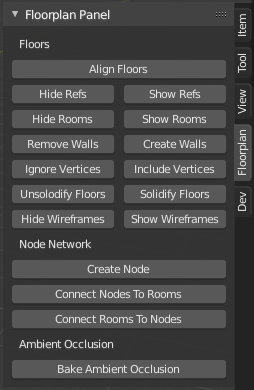
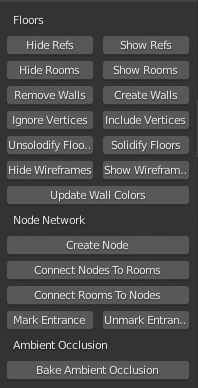
Updated Blender Readme.

diff --git a/Blender/readme.md b/Blender/readme.md
@@ -6,7 +6,9 @@ You can add the floorplan addon to Blender by going to Edit > Preferences > Add-
 Next, enable the addon by searching for 'Import Floor Plan' in the search bar of the addon tab.
 
 ### 1. Converting PDF floorplans to json files
-To run the script in this step you will need to have the [pdf2image python module](https://github.com/Belval/pdf2image) installed. Please follow the installation instructions for this module on its github page.
+To run the script in this step you will need to have the [pdf2image](https://github.com/Belval/pdf2image) and [PyPDF2](https://pypi.org/project/PyPDF2/) modules installed. Please follow the installation instructions for the pdf2image module on its github page.
+
+A usefull Blender addon to draw the wall lines in a floor plan is [Snap Utilities](https://gumroad.com/l/IaqQf).
 
 The first step for getting a floorplans into Blender is to extract the necessary data from the PDF files. This is done by running the `convertPdfs.py` script. This script will walk through all sub directories, and tries to extract floorplan data from any pdf it encounters. For every pdf the script will create a json and png file in the same directory.
 
@@ -25,7 +27,34 @@ At this point you will have to do quite a bit of manual labor to create the 3D m
 
 ![floorplan tools](images/floorplan_tools_panel.png)
 
-*TODO: describe every function in the tools panel.*
+#### Floorplan Tools Panel Functions
+
+- **Hide/Show Refs** - Show or hide the reference image of all floors in a building.
+
+- **Hide/Show Rooms** - Hides or shows the green spheres representing room nodes.
+
+- **Remove/Create Walls** - Creates or removes walls based on the model of the floor. Edges on the floor will be extruded upwards unless they are added to the 'ignore' vertex group. Doors will be created in spots where the node network intersects with a wall.
+
+- **Ignore/Include Vertices** - Adds or removes selected vertices to the ignore vertex group.
+
+- **Create Node** - Creates a node for the node network at the location of the cursor. Mostly usefull to create a new node network.
+
+- **Connect Nodes To Rooms** - Moves room nodes (green sphere) that are close enough to a network node (red sphere) to to position of the network sphere.
+
+- **Connect Rooms To Nodes** - Moves network nodes that are close enough to a room node to the position of the room node.
+
+- **Mark/Unmark Entrance** - Marks or unmarks the selected room nodes as entry points to building's node network.
+
+- **Bake Ambient Occlusion** - Starts baking ambient occlusion for every wall and floor model to image textures. This can take a while, do not make any changes to the scene while this is in progress.
+
+#### Rough outline for creating the floorplan models.
+
+1. Import the floorplan json file generated by convertPdfs.py.
+2. When working with multiple floors, line up the reference image with the floor below it.
+3. Draw the walls and stairs on the model of the floorplan using the addon [Snap Utilities](https://gumroad.com/l/IaqQf).
+4. Draw a node network through over the walk ways of the floorplan.
+5. Bake ambient occlusion for the building.
+6. Set the name of the location by changing the name of the Blender scene in the top right.
 
 ### 4. Export the floorplan
 
